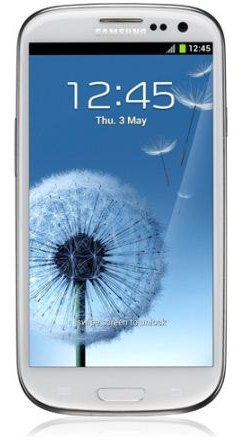
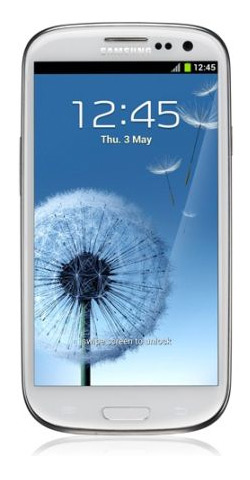
Improved demos, sample data and phone images

diff --git a/docs/tables/table-reflow.html b/docs/tables/table-reflow.html
@@ -126,30 +126,31 @@
         </tr>
         <tr>
           <th>10</th>
-          <td><a href="http://en.wikipedia.org/wiki/The_Graduate" data-rel="external">The Graduate</a></td>
-          <td>1967</td>
+          <td class="title"><a href="http://en.wikipedia.org/wiki/Inception" data-rel="external">Inception</a></td>
+          <td>2010</td>
           <td>84%</td>
-          <td>56</td>
+          <td>78</td>
         </tr>
       </tbody>
     </table>
 
-	<h3>Using reflow mode</h3>
+		<h3>Using reflow mode</h3>
 	
-	<p>The reflow responsive table mode is the simplest in terms of markup requirements because it only requires a table with a <code>data-role=&quot;table&quot;</code> on the table element. There is no need to set the <code>data-mode</code> attribute since <code>reflow is the default.</code> For good measure, assign a unique <code>ID</code> to the table.</p>
+		<p>The reflow responsive table mode is the simplest in terms of markup requirements because it only requires a table with a <code>data-role=&quot;table&quot;</code> on the table element. There is no need to set the <code>data-mode</code> attribute since <code>reflow</code> is the default. For good measure, assign a unique <code>ID</code> to the table.</p>
 	
-	<pre><code>&lt;table <strong>data-role=&quot;table&quot; ID=&quot;my-table&quot;</strong>&gt;</code></pre>
+		<pre><code>&lt;table <strong>data-role=&quot;table&quot; ID=&quot;my-table&quot;</strong>&gt;</code></pre>
 	
 	
-	<p>The plugin works by parsing the values (or <code>abbr title</code>) of the first row of header (<code>TH</code>) elements found in the table. For example, this table header content is parsed to grab the contents ("Year"):</p>
+		<p>The plugin works by parsing the values (or <code>abbr title</code>) of the first row of header (<code>TH</code>) elements found in the table. For example, in the table above, the third table header is parsed to grab the contents ("Year"):</p>
 
-	<pre><code>&lt;th&gt;<strong>Year</strong>&lt;/th&gt;</code></pre>
+		<pre><code>&lt;th&gt;<strong>Year</strong>&lt;/th&gt;</code></pre>
 
-	<p>It then appends an element before the contents of every cell in that has the table header text which is styled to look like a label for the cell. For example, for every table cell in the year column:</p>
-	<pre><code><strong>&lt;td&gt;1941&lt;/td&gt;</strong></code></pre>
+		<p>The script then appends an element with the table header text <em>before</em> the contents of every cell. This is styled to look like a left aligned label for the cell when stacked at narrow widths. For example, for every table cell in the year column:</p>
+		
+		<pre><code><strong>&lt;td&gt;1941&lt;/td&gt;</strong></code></pre>
 	
-	<p>An element is prepended before the text with a <code>class</code> of <code>ui-table-cell-label</code>:</p>
-	<pre><code>&lt;td&gt;<strong>&lt;b class=&quot;ui-table-cell-label&quot;&gt;</strong>Year<strong>&lt;/b&gt;</strong>1941&lt;/td&gt;</code></pre>
+		<p>An element is added before the text with a <code>class</code> of <code>ui-table-cell-label</code>:</p>
+		<pre><code>&lt;td&gt;<strong>&lt;b class=&quot;ui-table-cell-label&quot;&gt;</strong>Year<strong>&lt;/b&gt;</strong>1941&lt;/td&gt;</code></pre>
 	
 		<h3>Setting media queries for the stack point</h3>
 		

diff --git a/docs/tables/stack-phones.html b/docs/tables/stack-phones.html
@@ -25,11 +25,15 @@
    </div><!-- /header -->
 
    <div data-role="content">
-        <h2>Reflow customizations table</h2>
+        
 
 
 
 <style>
+	h2.phone-header {
+		margin-bottom:-1.6em;
+		padding-right:8em;
+	}
 	table thead th {
 		background-color:#fff;
 	}
@@ -57,13 +61,63 @@
 		max-width:100%;
 		min-width:60px;
 	}
+	/* Show priority 1 at 320px (20em x 16px) */ 
+	@media screen and (min-width: 20em) {
+	   th.ui-table-priority-1,
+	   td.ui-table-priority-1 {
+	     display: table-cell;
+	   }
+	}
+	/* Show priority 2 at 480px (30em x 16px) */ 
+	@media screen and (min-width: 30em) {
+	   th.ui-table-priority-2,
+	   td.ui-table-priority-2 {
+	     display: table-cell;
+	   }
+	}
+	/* Show priority 3 at 640px (40em x 16px) */ 
+	@media screen and (min-width: 40em) {
+	   th.ui-table-priority-3,
+	   td.ui-table-priority-3 {
+	     display: table-cell;
+	   }
+	}
+	/* Show priority 4 at 800px (50em x 16px) */ 
+	@media screen and (min-width: 50em) {
+	  th.ui-table-priority-4,
+	  td.ui-table-priority-4 {
+	     display: table-cell;
+	   }
+	}
+	/* Show priority 5 at 960px (60em x 16px) */ 
+	@media screen and (min-width: 60em) {
+	  th.ui-table-priority-5,
+	  td.ui-table-priority-5 {
+	     display: table-cell;
+	   }
+	}
+	/* Show priority 6 at 1200 (75em x 16px) */ 
+	@media screen and (min-width: 75em) {
+	  th.ui-table-priority-6,
+	  td.ui-table-priority-6 {
+	     display: table-cell;
+	   }
+	}
+	/* Manually hidden */ 
+	th.ui-table-cell-hidden,
+	td.ui-table-cell-hidden {
+	  display: none;
+	}
+
+	/* Manually shown */
+	th.ui-table-cell-visible,
+	td.ui-table-cell-visible {
+	   display: table-cell;
+	}
 </style>
 
-		<h3>Phone comparison</h3>
-		
-           <table data-role="table" id="phone-table" data-mode="columntoggle" data-column-btn-text="Compare phones...">
-            <caption>Popular smartphones compared side-by-side.</caption> 
-
+		<h2 class="phone-header">Smartphone comparison</h2>
+           <table data-role="table" id="phone-table" data-mode="columntoggle" data-column-btn-text="Compare phones..." data-column-btn-theme="a" class="ui-shadow">
               <thead>
                 <tr>
                   <th class="label">Model</th>

diff --git a/docs/tables/stack-custom.html b/docs/tables/stack-custom.html
@@ -24,9 +24,9 @@
       <a href="../nav.html" data-icon="search" data-iconpos="notext" data-rel="dialog" data-transition="fade">Search</a>
    </div><!-- /header -->
 
-   <div data-role="content">
-        <h2>Reflow customizations table</h2>
-
+   <div data-role="content" data-theme="c">
+        <h2>Top movies</h2>
+		<p>Custom styles for the reflow table at stacked widths</p>
 
 <script src="jquery.tablesorter.min.js"></script>
 <script>
@@ -57,6 +57,7 @@
 	padding-left:.8em;
 }
 
+/*	Custom stacked styles for mobile sizes */
 /*	Use a max-width media query so we don't have to undo these styles */
 @media ( max-width: 40em ) {
 	
@@ -74,6 +75,9 @@
 		padding:.5em .5em;
 		background-color:#fff;
 		color:#77bbff;
+		-moz-box-shadow: 0 1px 6px rgba(0,0,0,.1);
+	  	-webkit-box-shadow: 0 1px 6px rgba(0,0,0,.1);
+	  	box-shadow: 0 1px 6px rgba(0,0,0,.1);
 	}
 	/*	Hide labels for rank and title */
 	.ui-table-reflow tbody th .ui-table-cell-label,
@@ -91,16 +95,37 @@
 	.ui-table-reflow td { 
 		font-weight:bold;
 	}
+	/* Make the label elements a percentage width */ 
+	.ui-table-reflow td .ui-table-cell-label,
+	.ui-table-reflow th .ui-table-cell-label { 
+		min-width: 20%; 
+	}
+}
 
-
+/* Media query to show as a standard table at wider widths */ 
+@media ( min-width: 40em ) {
+	/* Show the table header rows */ 
+	.ui-table-reflow td,
+	.ui-table-reflow th,
+	.ui-table-reflow tbody th,
+	.ui-table-reflow tbody td,
+	.ui-table-reflow thead td,
+	.ui-table-reflow thead th {
+		display: table-cell;
+		margin: 0;
+	}
+	/* Hide the labels in each cell */ 
+	.ui-table-reflow td .ui-table-cell-label,
+	.ui-table-reflow th .ui-table-cell-label { 
+		display: none;
+	}
 }
 </style>
 
-            <h3>Top movies</h3>
+            
 
 
             <table data-role="table" id="movie-table-custom" data-mode="reflow" class="tablesorter">
-            <caption>Top movies of all time according to film buffs. In case you're curious, this is a caption for the table.</caption> 
 
               <thead>
                 <tr>

diff --git a/docs/tables/table-column-toggle.html b/docs/tables/table-column-toggle.html
@@ -163,10 +163,10 @@
                 </tr>
                 <tr>
                   <th>10</th>
-                  <td><a href="http://en.wikipedia.org/wiki/The_Graduate" data-rel="external">The Graduate</a></td>
-                  <td>1967</td>
+                  <td class="title"><a href="http://en.wikipedia.org/wiki/Inception" data-rel="external">Inception</a></td>
+                  <td>2010</td>
                   <td>84%</td>
-                  <td>56</td>
+                  <td>78</td>
                 </tr>
               </tbody>
             </table>
